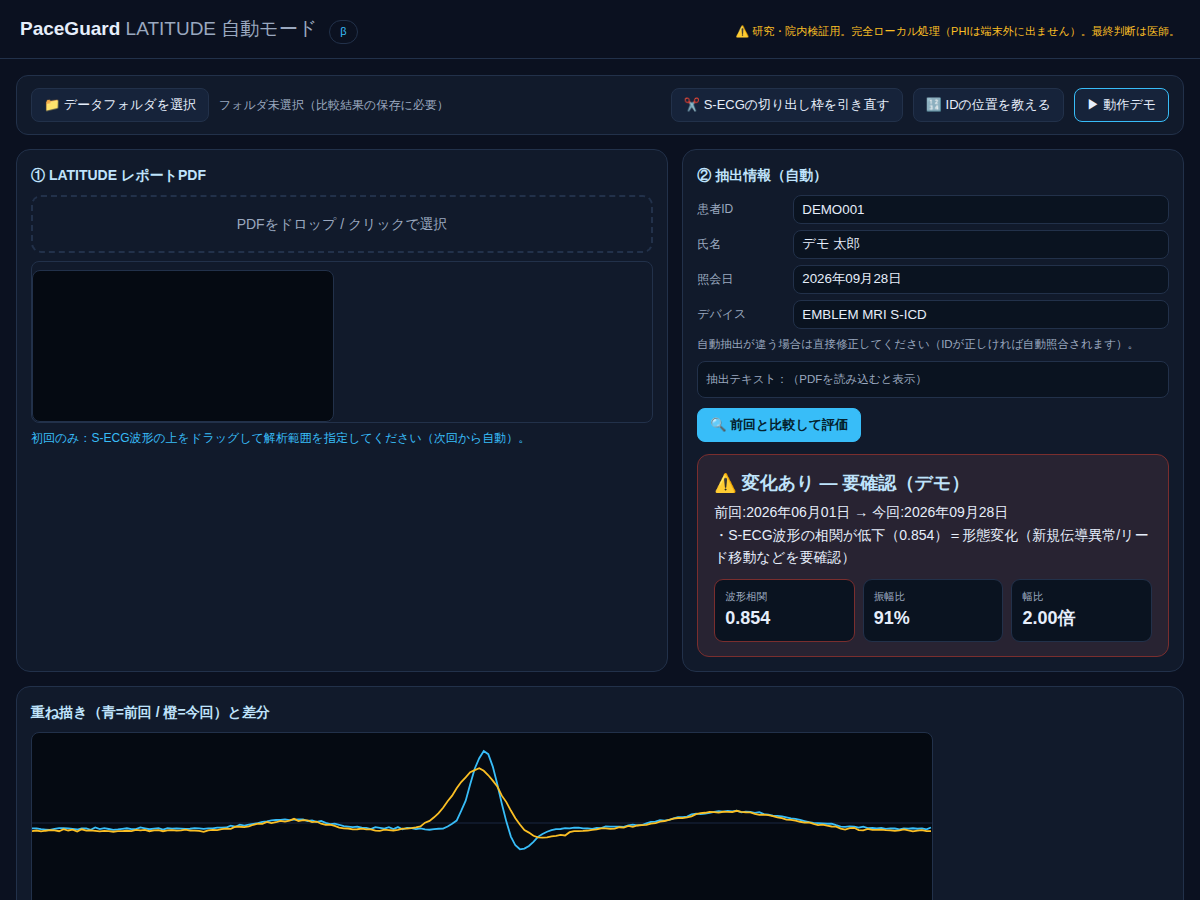
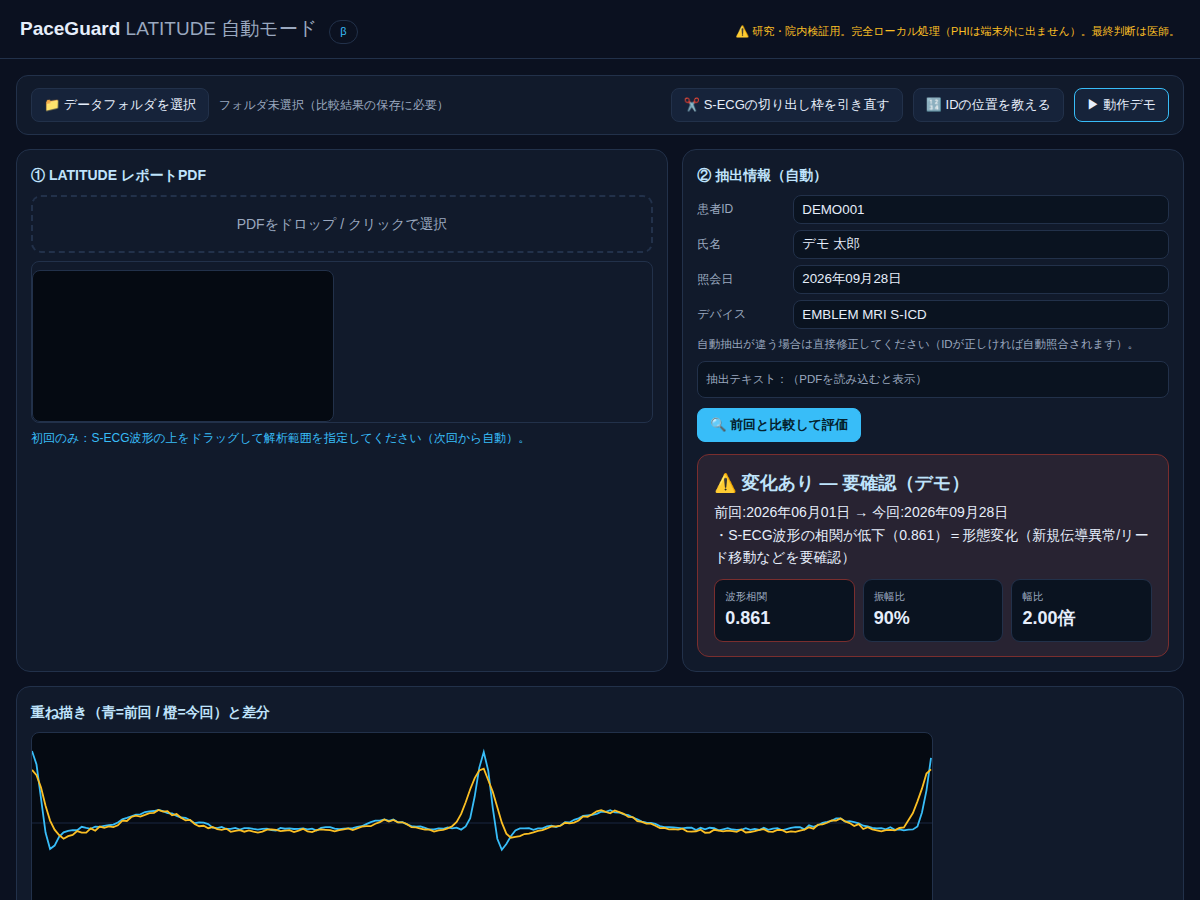
LATITUDE: OCR only fills empty ID (no clobber), append not replace debug; show annotation contents in debug for diagnosis
Claude-Session: https://claude.ai/code/session_01Wcb4cBPzc5KXLfrh4NUyRm

Changed region(s): [[0.0308, 0.84, 0.7708, 0.9333], [0.6167, 0.6844, 0.6475, 0.7156]]

diff --git a/paceguard-latitude.html b/paceguard-latitude.html
@@ -174,8 +174,8 @@ async function ocrId(){
     const {data}=await T.recognize(tmp,'eng',{tessedit_char_whitelist:'0123456789'});
     const digits=(data.text.match(/\d/g)||[]).join('');
     const id=(digits.match(/\d{8}/)||[digits])[0]||'';
-    $('fId').value=id;
-    $('dbg').innerHTML=`OCR読取：<code>${(data.text.trim()||'（空）').replace(/</g,'&lt;')}</code> → <b>ID候補：${id||'（8桁が取れませんでした）'}</b>`;
+    if(id) $('fId').value=id; // 取れた時だけ反映（空で上書きしない）
+    $('dbg').innerHTML += `<br>OCR読取：<code>${(data.text.trim()||'（空）').replace(/</g,'&lt;')}</code> → <b>ID候補：${id||'（8桁が取れませんでした）'}</b>`;
   }catch(e){ $('dbg').innerHTML='OCR失敗：'+e+'<br><span class="hint">ネット接続が必要です（初回のみ）。院内で遮断されている場合は同梱OCRに切替します。</span>'; }
 }
 $('teachId').onclick=()=>{ if(!pageBackup.width){alert('先にPDFを読み込んでください');return;} drawMode='id'; $('dbg').innerHTML='<b>IDの数字の上をドラッグして囲んでください</b>（8桁の数字だけを枠に入れる）。'; };
@@ -196,7 +196,8 @@ async function loadPDF(file){
     try{ const ans=await page.getAnnotations(); annotStrs=ans.map(a=>(a.contentsObj&&a.contentsObj.str)||a.contents||'').filter(s=>s&&s.trim()); }catch(_){}
     extractFields(tc.items.map(it=>({s:it.str,x:it.transform[4],y:it.transform[5]})), annotStrs);
     if(crop) autoTrace();
-    if(idBox){ drawIdBox(); ocrId(); }
+    // 注釈/テキストでIDが取れていれば優先。取れない時だけOCRを試す（枠を教えてある場合）。
+    if(idBox){ drawIdBox(); if(!$('fId').value) ocrId(); }
   }catch(e){ $('result').innerHTML=`<div class="verdict bad"><h2>PDF読み込みエラー</h2>${e}<br><span class="hint">pdf.jsの読み込みにインターネットが必要です（初回のみ）。院内でCDNが塞がれている場合はpdf.jsを同梱版に切り替えます。</span></div>`; }
 }
 function extractFields(items, annotStrs){
@@ -225,7 +226,9 @@ function extractFields(items, annotStrs){
   meta={id:idCand||'',name:nameCand,date:interro,device:dev};
   // デバッグ：文字項目数＋注釈数＋抽出テキスト先頭を表示
   const dbg=$('dbg');
-  if(dbg) dbg.innerHTML = `文字項目：<b>${items.length}</b>／注釈：<b>${annotStrs.length}</b>／文字数：<b>${t.length}</b><br>抽出：<code style="color:#7c8aa0">${(t.slice(0,180)||'（空）').replace(/</g,'&lt;')}</code>`;
+  if(dbg) dbg.innerHTML = `文字項目：<b>${items.length}</b>／注釈：<b>${annotStrs.length}</b>／文字数：<b>${t.length}</b>`
+    + `<br>注釈内容：<code style="color:#7c8aa0">${(annotStrs.join(' ┃ ').slice(0,160)||'（注釈なし）').replace(/</g,'&lt;')}</code>`
+    + `<br>抽出：<code style="color:#7c8aa0">${(t.slice(0,120)||'（空）').replace(/</g,'&lt;')}</code>`;
   $('cropHint').innerHTML = (crop?'S-ECG枠は記憶済み（引き直すには✂）。':'初回のみ：S-ECG波形の上段1列を横長にドラッグして枠を指定してください。');
 }
 function autoTrace(){
